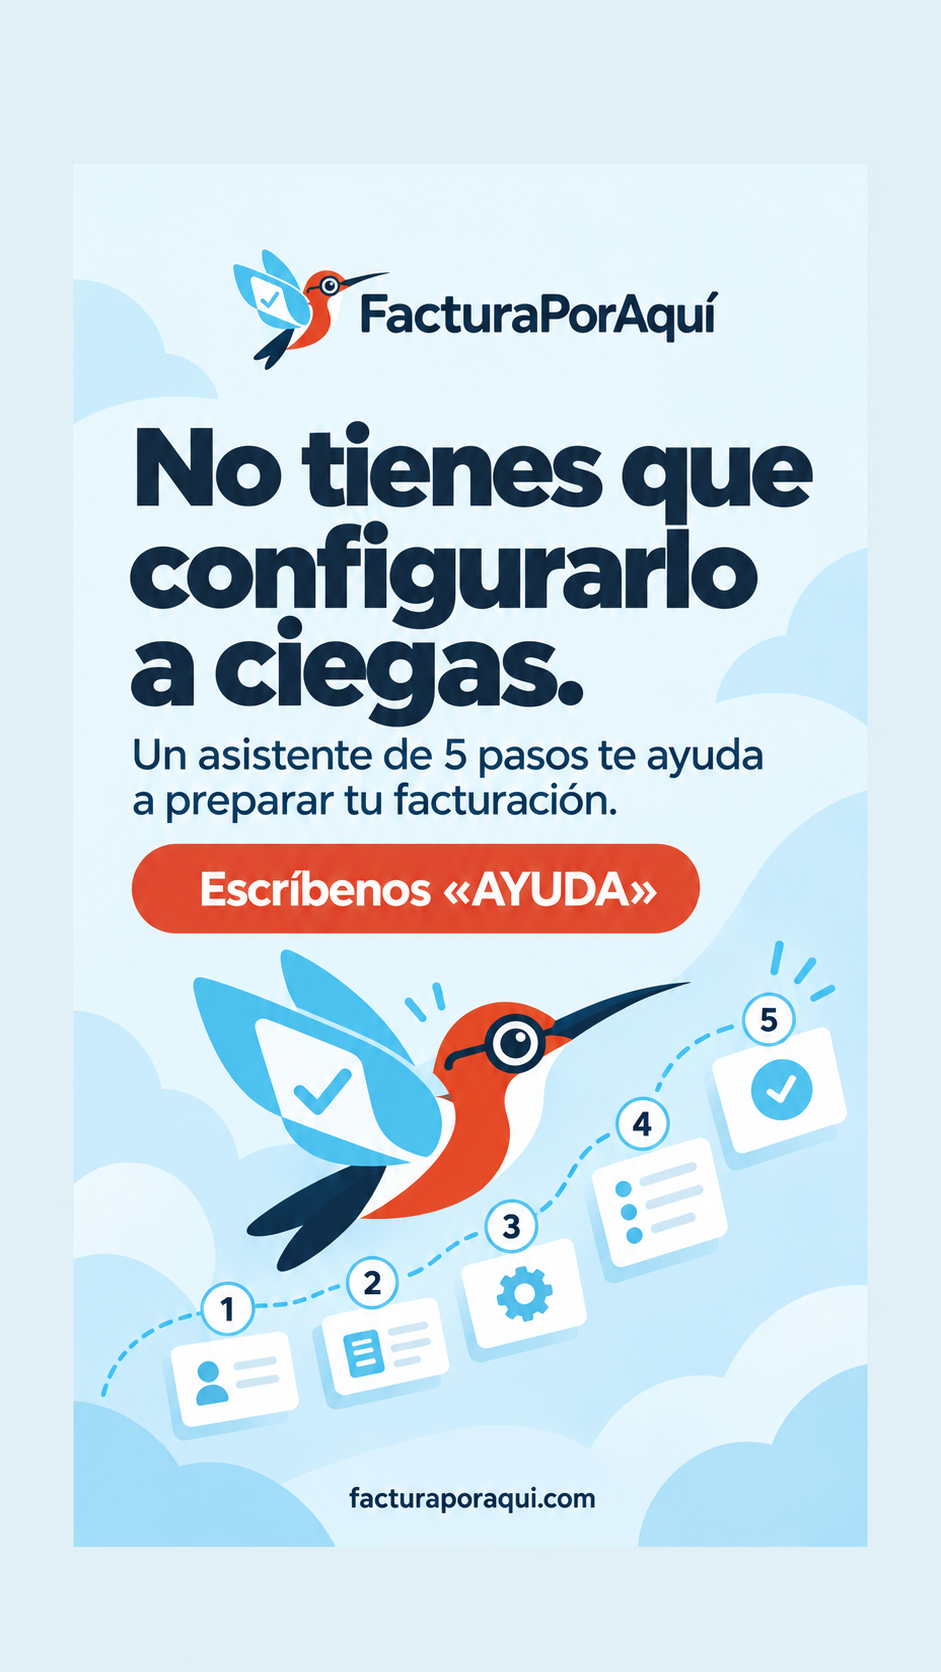
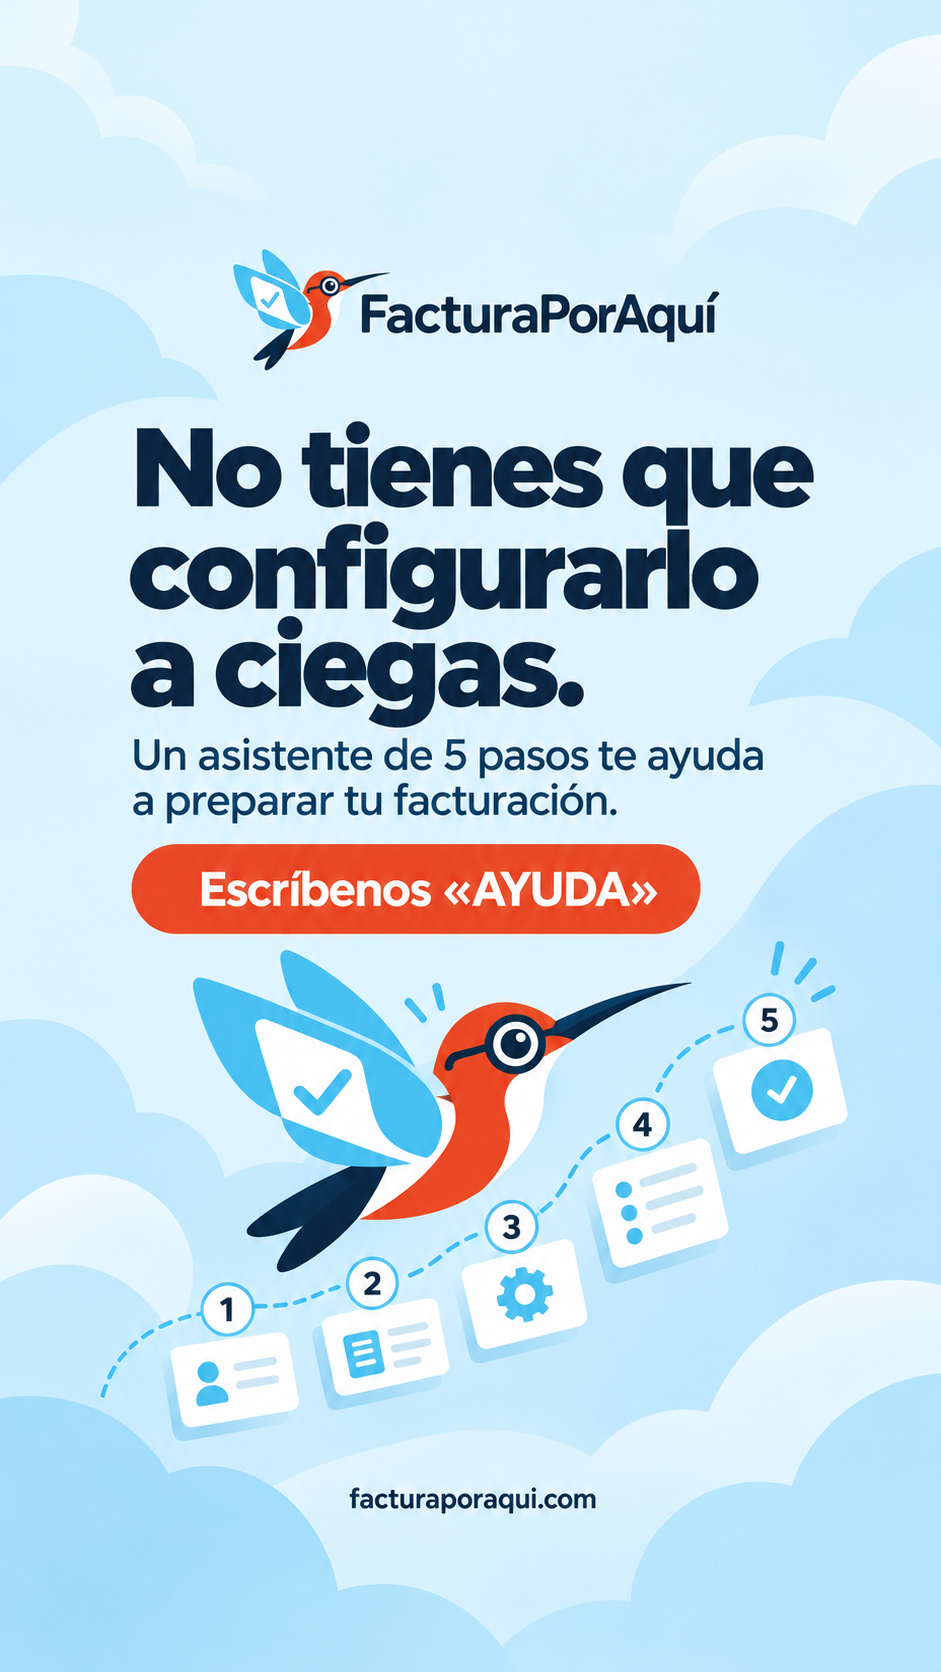
Remove visible frames from social artwork while retaining safe text margins

diff --git a/entregas/facturaporaqui/RESULTADOS-FRONTEND.md b/entregas/facturaporaqui/RESULTADOS-FRONTEND.md
@@ -786,3 +786,12 @@ Validación: inspección visual de 20 PNG en pares; textos legibles, planes50/85
 - **Suites:** PostgreSQL 259; SQLite 254 + 5 solo PostgreSQL.
 - **Publicado con `f787684`:** los formularios móviles de Codex (`3fc3104`).
 - **Verificación:** sin sesión → 302 al login; recorrido de DEMOSTRACIÓN sin errores de consola ni respuestas ≥ 400; temporizador del SRI activo.
+
+
+## 13/10/2026 — corrección del marco de redes
+
+El usuario rechazó el marco visible del ajuste anterior. Se editaron las 20 imágenes con la herramienta de imagen para eliminar el panel interior/banda y extender el fondo y formas decorativas hasta los bordes. Texto, marca y CTA permanecen dentro de la zona segura invisible de60px. Se sustituyeron los mismos PNG en `redes/campana-01/posts` e `historias`; se conservaron captions y nombres de archivo.
+
+Actualizados README, ARCHIVOS.json, AGENTS y HANDOFF. ZIP locales regenerados, incluido `/workspace/facturaporaqui-redes-01-sin-marco.zip`. Inspección visual de las20 piezas en galería: sin panel, precios50/85 y textos completos, ejemplo125→126 conservado. Chromium cargó las20 imágenes. ZIP íntegros con20 PNG. La prueba anterior basada en todos los píxeles oscuros ya no es adecuada: la decoración puede extenderse al borde (historia02 tiene papeles oscuros al extremo). El manifiesto ahora registra el criterio de zona segura y revisión visual, no un margen automático de todos los píxeles. No se certifica geometría idéntica entre versiones generadas; textos/marca revisados dentro de la zona solicitada.
+
+Sin publicación externa, sin cambios de app/backend y sin despliegue.

diff --git a/entregas/facturaporaqui/HANDOFF.md b/entregas/facturaporaqui/HANDOFF.md
@@ -1,5 +1,18 @@
 # Handoff compartido — frontend
 
+## Estado actual — redes con fondo continuo (Codex, 13/10 Ecuador)
+
+Reemplazadas las 20 imágenes en `redes/campana-01/` para quitar el marco de la entrega anterior. Fondo y formas decorativas continuos hasta los bordes; zona segura invisible para texto/marca. Textos, precios y nombres de archivo conservados. Manifiesto y ZIP actualizados. No cambios de aplicación ni publicación externa.
+
+## Pendiente para Codex — corrección de estilo
+
+- [x] Eliminar rectángulo/marco de los 10 posts y 10 historias.
+- [x] Revisar la campaña completa y regenerar ZIP.
+
+## Notas entre agentes — diseño de redes
+
+El margen de60px es una zona segura para texto/logo, no un borde uniforme. La decoración de fondo puede llegar al límite del PNG. No se requiere backend ni despliegue de aplicación. La versión anterior con marco queda en el historial de git; la carpeta vigente usa fondo continuo.
+
 ## Estado actual — encuadre de redes actualizado (Codex, 13/10 Ecuador)
 
 Actualizadas las 20 imágenes en la misma ruta `entregas/facturaporaqui/redes/campana-01/`: zona segura mínima de 60 px en los cuatro lados para textos y marca. Conservados precios y captions. Galería con opción de miniatura orientativa 3:4, manifiesto y ZIP actualizados. No aplicación ni publicación de redes modificadas.

diff --git a/entregas/facturaporaqui/AGENTS.md b/entregas/facturaporaqui/AGENTS.md
@@ -10,3 +10,5 @@
 - Formularios compartidos usan `.fp-responsive-form`. En móvil las líneas de documento se presentan con `.fp-mobile-lines` y `data-label`, conservando las celdas e inputs originales (sin clones) para no romper eventos ni cálculos. Verificar filas con productos y edición de cantidad, además del formulario vacío.
 
 - Material de redes: dejar una zona segura mínima de 60 px arriba, abajo, izquierda y derecha para texto y marca; comprobar miniatura y formato completo. Las historias requieren también espacio para la interfaz de la plataforma.
+
+- La zona segura de redes es invisible: extender fondo y formas decorativas hasta el borde; no crear marcos, paneles interiores ni bandas que alteren el diseño. Mantener texto/logo al menos a 60 px.

diff --git a/entregas/facturaporaqui/redes/campana-01/README.md b/entregas/facturaporaqui/redes/campana-01/README.md
@@ -26,3 +26,5 @@ El dominio es facturaporaqui.com. No se inventó un WhatsApp, correo ni perfil s
 ## Encuadre revisado
 
 Versión con zona segura de al menos 60 px en los cuatro lados para texto y marca. Conservar las proporciones y revisar la miniatura del perfil antes de publicar: el grid y el post completo pueden usar recortes distintos. Las historias siguen teniendo espacio adicional para interfaz. No se cambian precios ni captions.
+
+El margen es una zona segura invisible: fondo y formas decorativas llegan al borde, mientras texto y marca permanecen dentro. No usar un panel interior, marco ni banda de color diferente.
